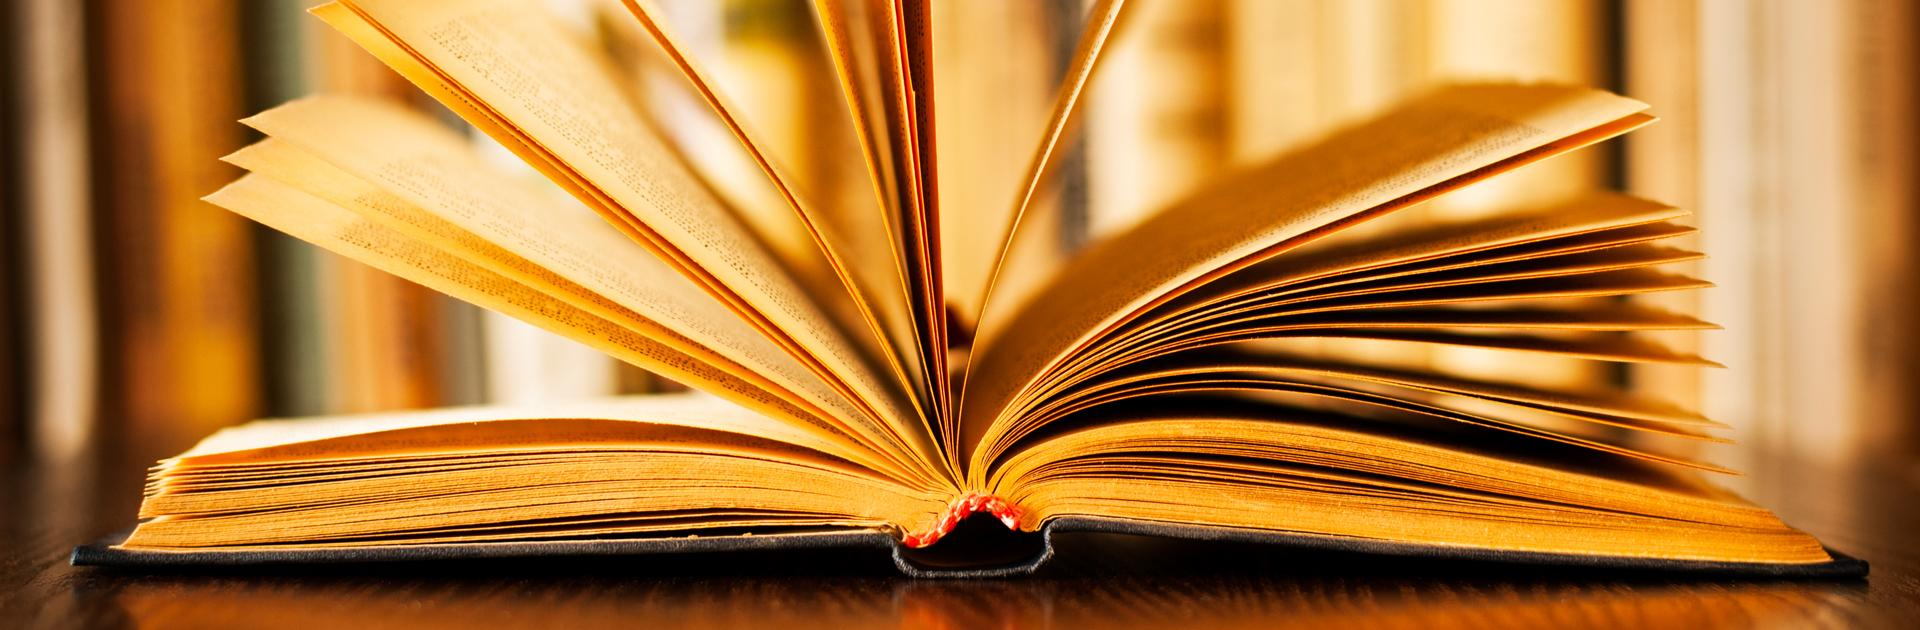
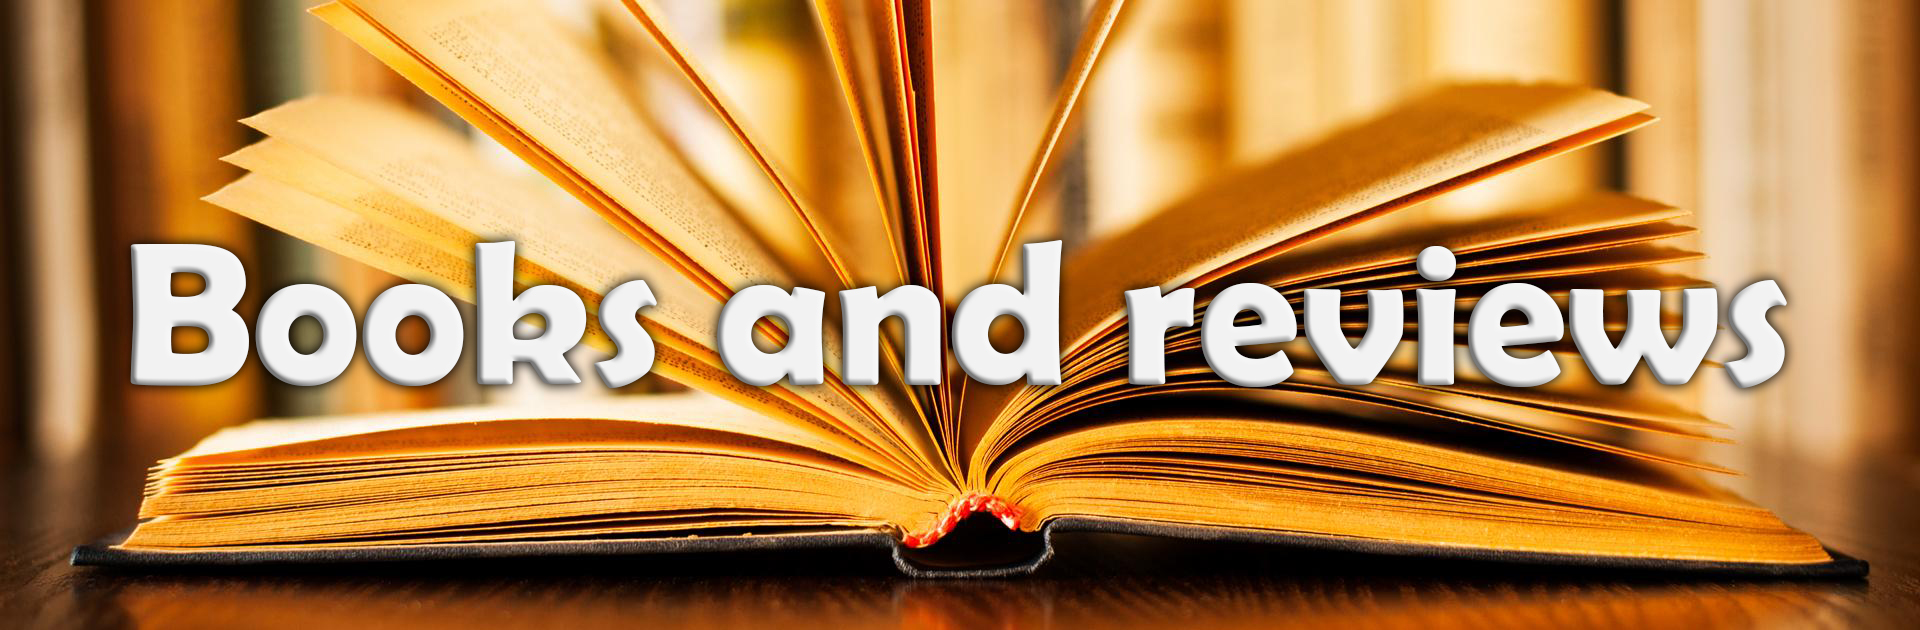
Admin funktionalitet frontpage and more

Changed region(s): [[0.0625, 0.3619, 0.9375, 0.6333]]

diff --git a/src/App.js b/src/App.js
@@ -14,6 +14,7 @@ import facade from "./apiFacade";
 import LoggedIn from "./LoggedIn";
 import LoginForm from "./loginForm";
 import UserPage1 from "./UserPage1";
+import FrontPage from "./Frontpage";
 
 
 function App() {
@@ -47,7 +48,7 @@ function App() {
       <Header loginMsg={loggedIn ? "Logout" : "Login"} loggedIn={loggedIn} />
       <Switch>
         <Route exact path="/">
-          <Home />
+          <FrontPage/>
         </Route>
         <Route path="/page1">
           <FetchDefault />
@@ -160,22 +161,7 @@ function NoMatch() {
   );
 }
 
-function Home() {
-  return (
-    <>
-      <h3>Use instructions</h3>
-      <p>
-        In settings.js, change the URL's to match the current project.<br/>
-        Refactor navlinks to match project domain.<br/>
-        Page 1 diplayes fetched results from default endpoint in backend.<br/>
-        Page 2 is a blank slate. <br/>
-        Login page allows a user to login, if username and password is in the database.<br/>
-        Page 3 (after login) shows info about the user.<br/>
-        Page 4 (after login) shows info about admin user.
-      </p>
-    </>
-  );
-}
+
 
 function Placeholder() {
   return <h3>TODO</h3>;

diff --git a/src/Frontpage.jsx b/src/Frontpage.jsx
@@ -1,0 +1,22 @@
+import React, {useEffect, useState}from 'react';
+import Stories from './Stories.jpg';
+import "./App.css";
+function FrontPage() {
+   
+    
+    return (
+      <>
+      <div align="center">
+          <div className="bookTheme">
+        
+         <img src={Stories} alt="books" width={1000} height={300}/>
+
+        
+        
+        <br/><br/><br/><br/><br/><br/><br/><br/><br/><br/><br/><br/><br/><br/><br/><br/><br/>
+        </div>
+    </div>
+      </>
+    );
+  }
+  export default FrontPage;

diff --git a/src/UserPage1.jsx b/src/UserPage1.jsx
@@ -40,8 +40,8 @@ function UserPage1() {
       <>
       <div align="center">
           <div className="bookTheme">
-        <h1>Books and reviews</h1>
-         <img src={Books} alt="books" width={1100} height={200}/>
+        
+         <img src={Books} alt="books" width={1100} height={330}/>
 
          <div className="bookTheme2">
         <h3>
